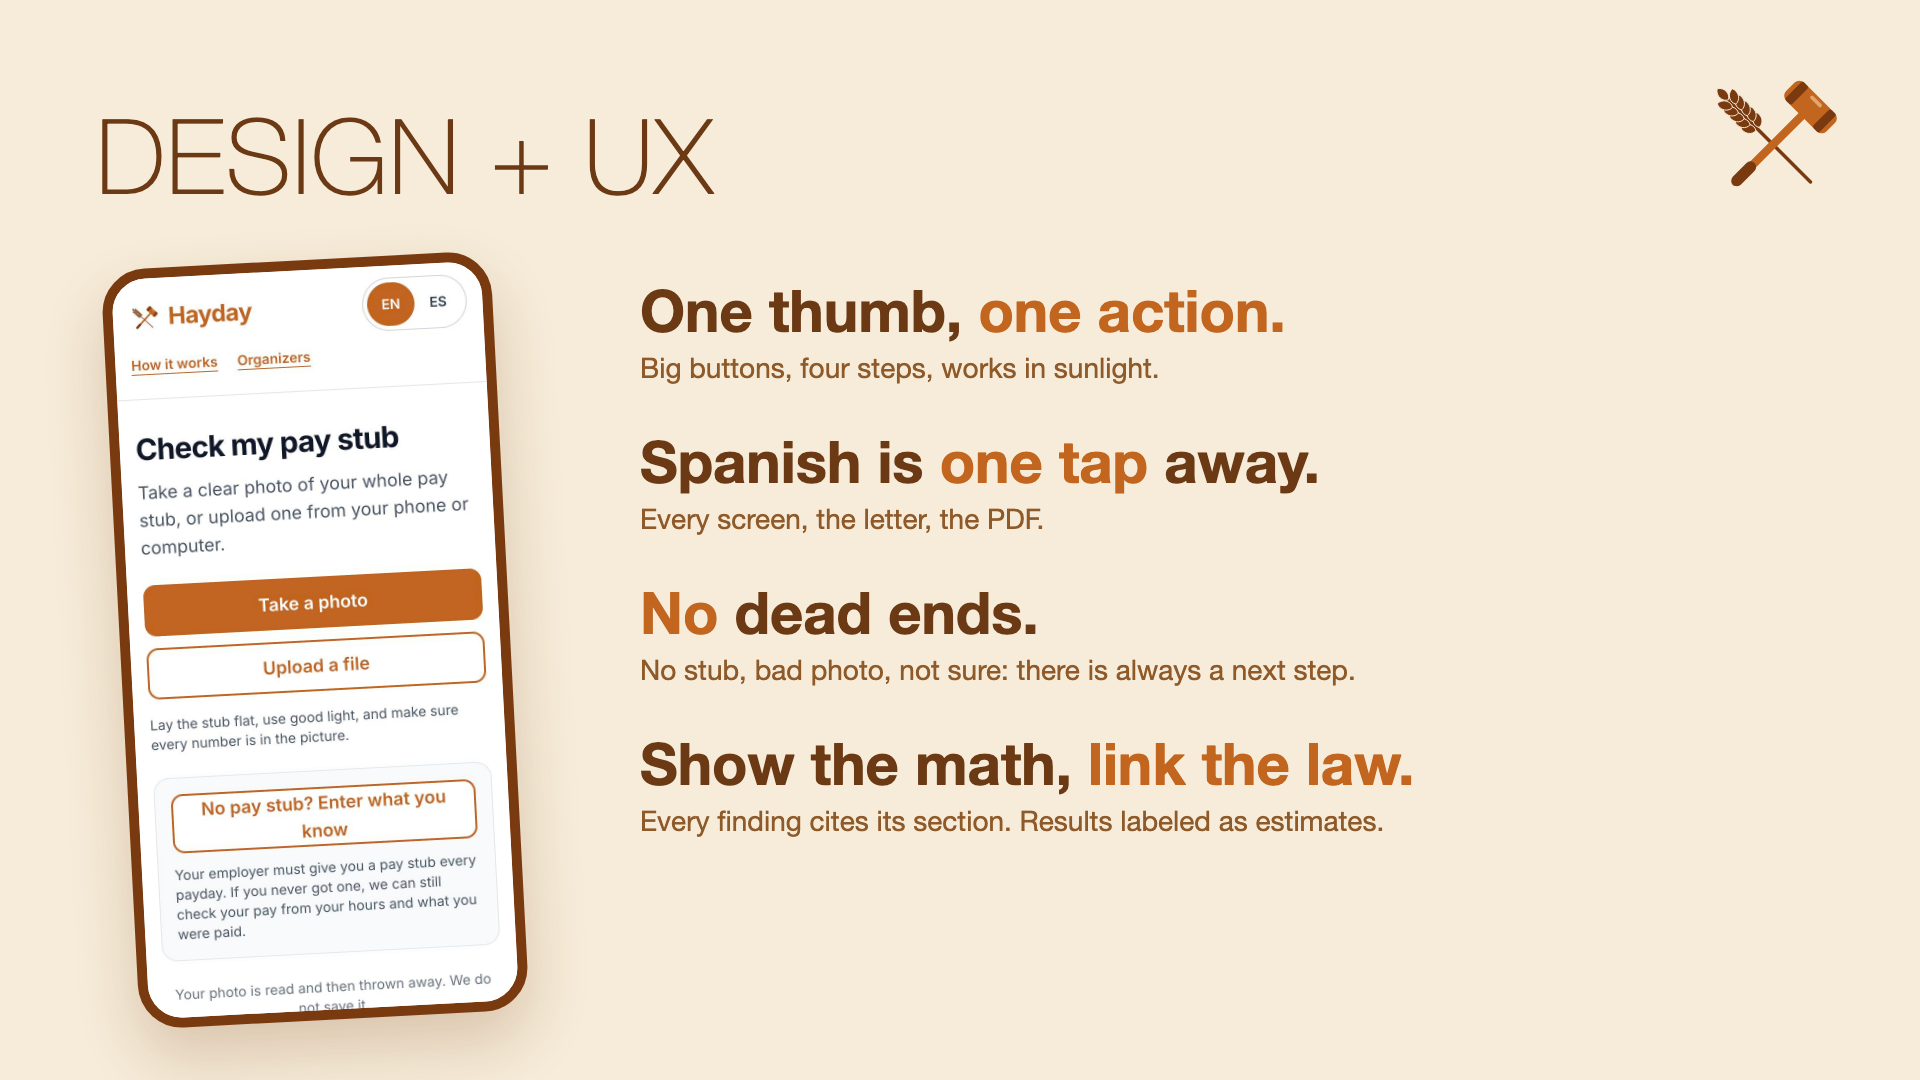
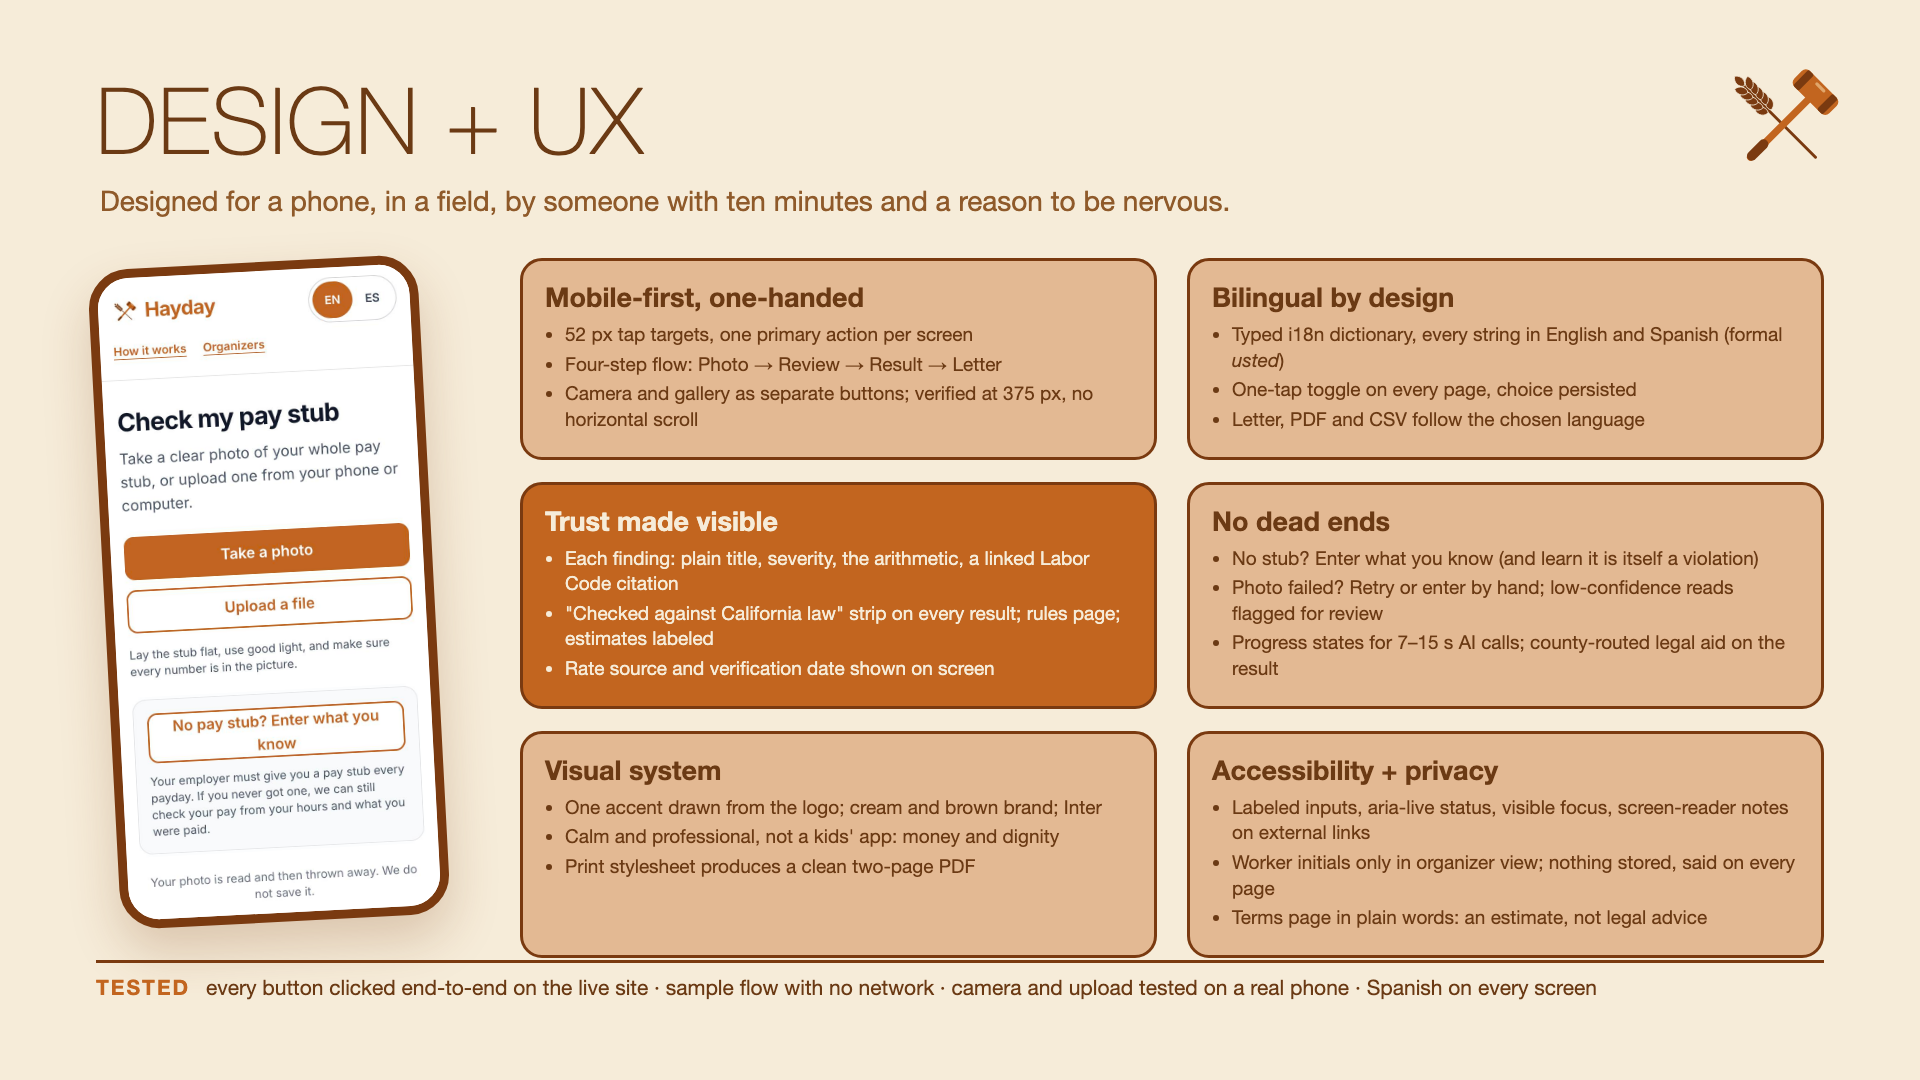
Denser design and UX slide

diff --git a/design/slides/slide-design.html b/design/slides/slide-design.html
@@ -1,13 +1,18 @@
 <!doctype html><html><head><meta charset="utf-8"><style>
 *{box-sizing:border-box} body{margin:0;width:1920px;height:1080px;background:#F6ECD9;font-family:Inter,-apple-system,"Helvetica Neue",Arial,sans-serif;color:#6B3A14;position:relative;overflow:hidden}
-.logo{position:absolute;top:56px;right:72px;width:150px;height:150px}
-h1{position:absolute;top:92px;left:96px;margin:0;font-size:104px;font-weight:300;letter-spacing:1px;text-transform:uppercase}
-.phone{position:absolute;left:120px;top:260px;width:390px;height:760px;border-radius:44px;border:10px solid #7A3A10;background:#fff;overflow:hidden;box-shadow:0 30px 60px rgba(122,58,16,.22);transform:rotate(-3deg)}
+.logo{position:absolute;top:48px;right:72px;width:130px;height:130px}
+h1{position:absolute;top:64px;left:96px;margin:0;font-size:92px;font-weight:300;letter-spacing:1px;text-transform:uppercase}
+.sub{position:absolute;top:184px;left:100px;font-size:28px;color:#8F5A2A}
+.phone{position:absolute;left:104px;top:262px;width:330px;height:660px;border-radius:40px;border:9px solid #7A3A10;background:#fff;overflow:hidden;box-shadow:0 24px 50px rgba(122,58,16,.22);transform:rotate(-3deg)}
 .phone img{width:100%;display:block}
-.list{position:absolute;left:640px;top:280px;right:96px;display:flex;flex-direction:column;gap:46px}
-.item .t{font-size:58px;font-weight:700;line-height:1.05;color:#6B3A14}
-.item .d{font-size:28px;color:#8F5A2A;margin-top:10px}
-.item .t span{color:#C2651F}
+.grid{position:absolute;left:520px;top:258px;right:96px;display:grid;grid-template-columns:1fr 1fr;gap:22px 30px}
+.card{background:#E3B993;border:3px solid #7A3A10;border-radius:22px;padding:20px 22px}
+.card.big{background:#C2651F;color:#F6ECD9}
+.card h3{margin:0 0 8px;font-size:27px;font-weight:700}
+.card ul{margin:0;padding-left:20px;font-size:19px;line-height:1.35}
+.card li{margin-bottom:4px}
+.band{position:absolute;left:96px;right:96px;top:960px;border-top:3px solid #7A3A10;padding-top:12px;font-size:21px;color:#6B3A14}
+.band b{color:#C2651F;letter-spacing:2px;text-transform:uppercase;margin-right:10px}
 </style></head><body>
 <svg class="logo" xmlns="http://www.w3.org/2000/svg" viewBox="0 0 200 200">
 <g transform="translate(150 168) rotate(-45)" fill="#7A3A10" stroke="#7A3A10" stroke-linecap="round">
@@ -22,11 +27,33 @@ h1{position:absolute;top:92px;left:96px;margin:0;font-size:104px;font-weight:300
 <rect x="140" y="55" width="20" height="5" rx="2.5" fill="#E0A66B" transform="rotate(45 150 68)"/>
 </svg>
 <h1>Design + UX</h1>
+<div class="sub">Designed for a phone, in a field, by someone with ten minutes and a reason to be nervous.</div>
 <div class="phone"><img src="phone-upload.jpg"></div>
-<div class="list">
-  <div class="item"><div class="t">One thumb, <span>one action.</span></div><div class="d">Big buttons, four steps, works in sunlight.</div></div>
-  <div class="item"><div class="t">Spanish is <span>one tap</span> away.</div><div class="d">Every screen, the letter, the PDF.</div></div>
-  <div class="item"><div class="t"><span>No</span> dead ends.</div><div class="d">No stub, bad photo, not sure: there is always a next step.</div></div>
-  <div class="item"><div class="t">Show the math, <span>link the law.</span></div><div class="d">Every finding cites its section. Results labeled as estimates.</div></div>
+<div class="grid">
+  <div class="card"><h3>Mobile-first, one-handed</h3><ul>
+    <li>52 px tap targets, one primary action per screen</li>
+    <li>Four-step flow: Photo → Review → Result → Letter</li>
+    <li>Camera and gallery as separate buttons; verified at 375 px, no horizontal scroll</li></ul></div>
+  <div class="card"><h3>Bilingual by design</h3><ul>
+    <li>Typed i18n dictionary, every string in English and Spanish (formal <i>usted</i>)</li>
+    <li>One-tap toggle on every page, choice persisted</li>
+    <li>Letter, PDF and CSV follow the chosen language</li></ul></div>
+  <div class="card big"><h3>Trust made visible</h3><ul>
+    <li>Each finding: plain title, severity, the arithmetic, a linked Labor Code citation</li>
+    <li>"Checked against California law" strip on every result; rules page; estimates labeled</li>
+    <li>Rate source and verification date shown on screen</li></ul></div>
+  <div class="card"><h3>No dead ends</h3><ul>
+    <li>No stub? Enter what you know (and learn it is itself a violation)</li>
+    <li>Photo failed? Retry or enter by hand; low-confidence reads flagged for review</li>
+    <li>Progress states for 7–15 s AI calls; county-routed legal aid on the result</li></ul></div>
+  <div class="card"><h3>Visual system</h3><ul>
+    <li>One accent drawn from the logo; cream and brown brand; Inter</li>
+    <li>Calm and professional, not a kids' app: money and dignity</li>
+    <li>Print stylesheet produces a clean two-page PDF</li></ul></div>
+  <div class="card"><h3>Accessibility + privacy</h3><ul>
+    <li>Labeled inputs, aria-live status, visible focus, screen-reader notes on external links</li>
+    <li>Worker initials only in organizer view; nothing stored, said on every page</li>
+    <li>Terms page in plain words: an estimate, not legal advice</li></ul></div>
 </div>
+<div class="band"><b>Tested</b> every button clicked end-to-end on the live site · sample flow with no network · camera and upload tested on a real phone · Spanish on every screen</div>
 </body></html>
